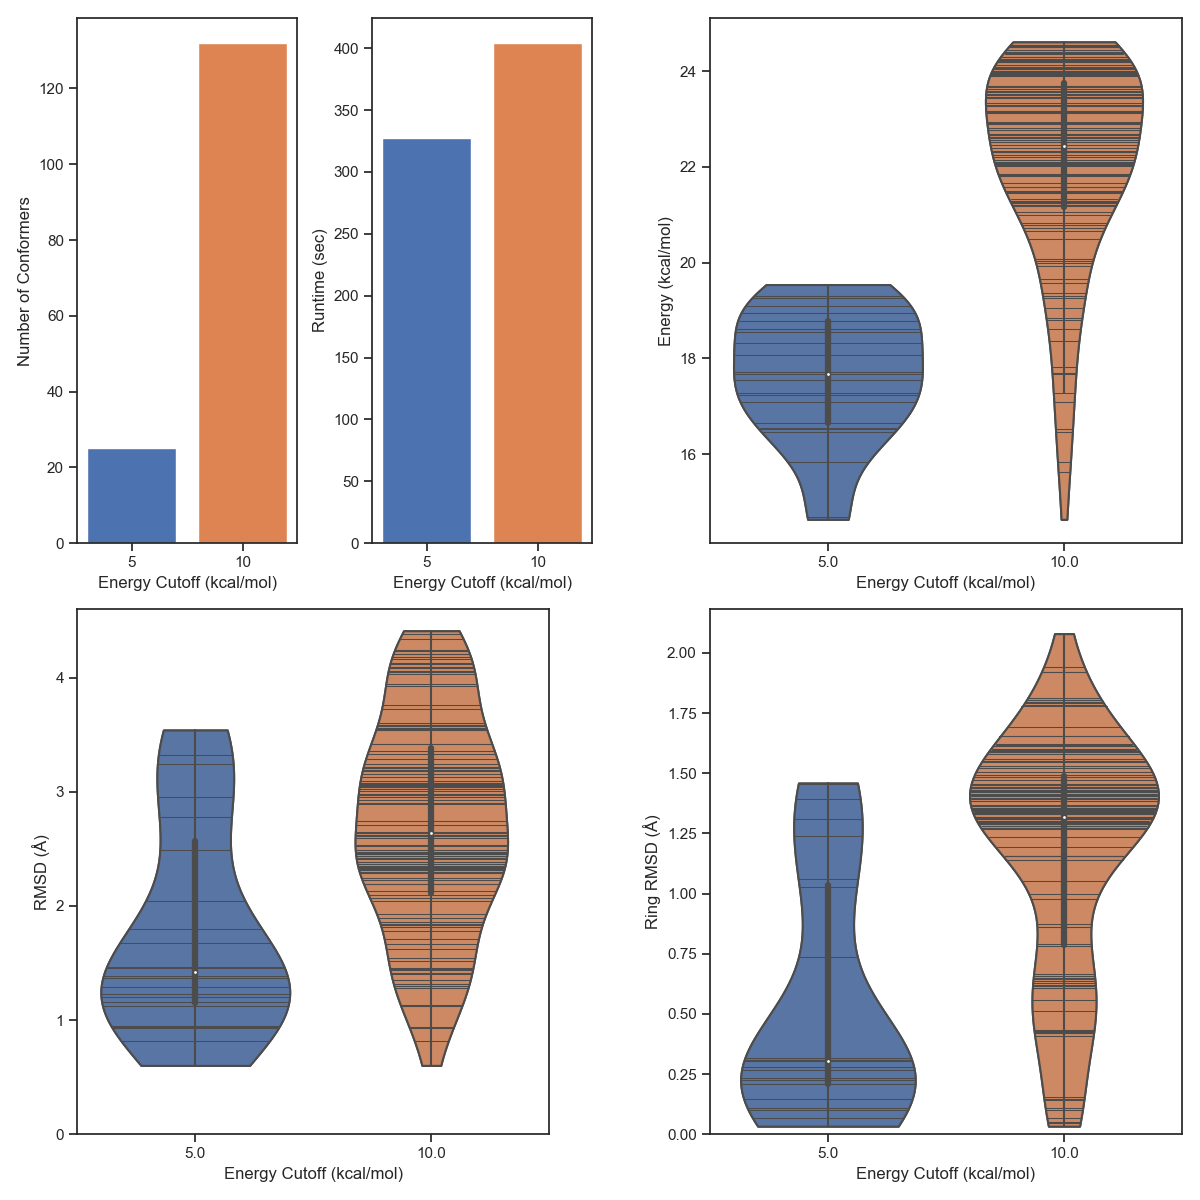
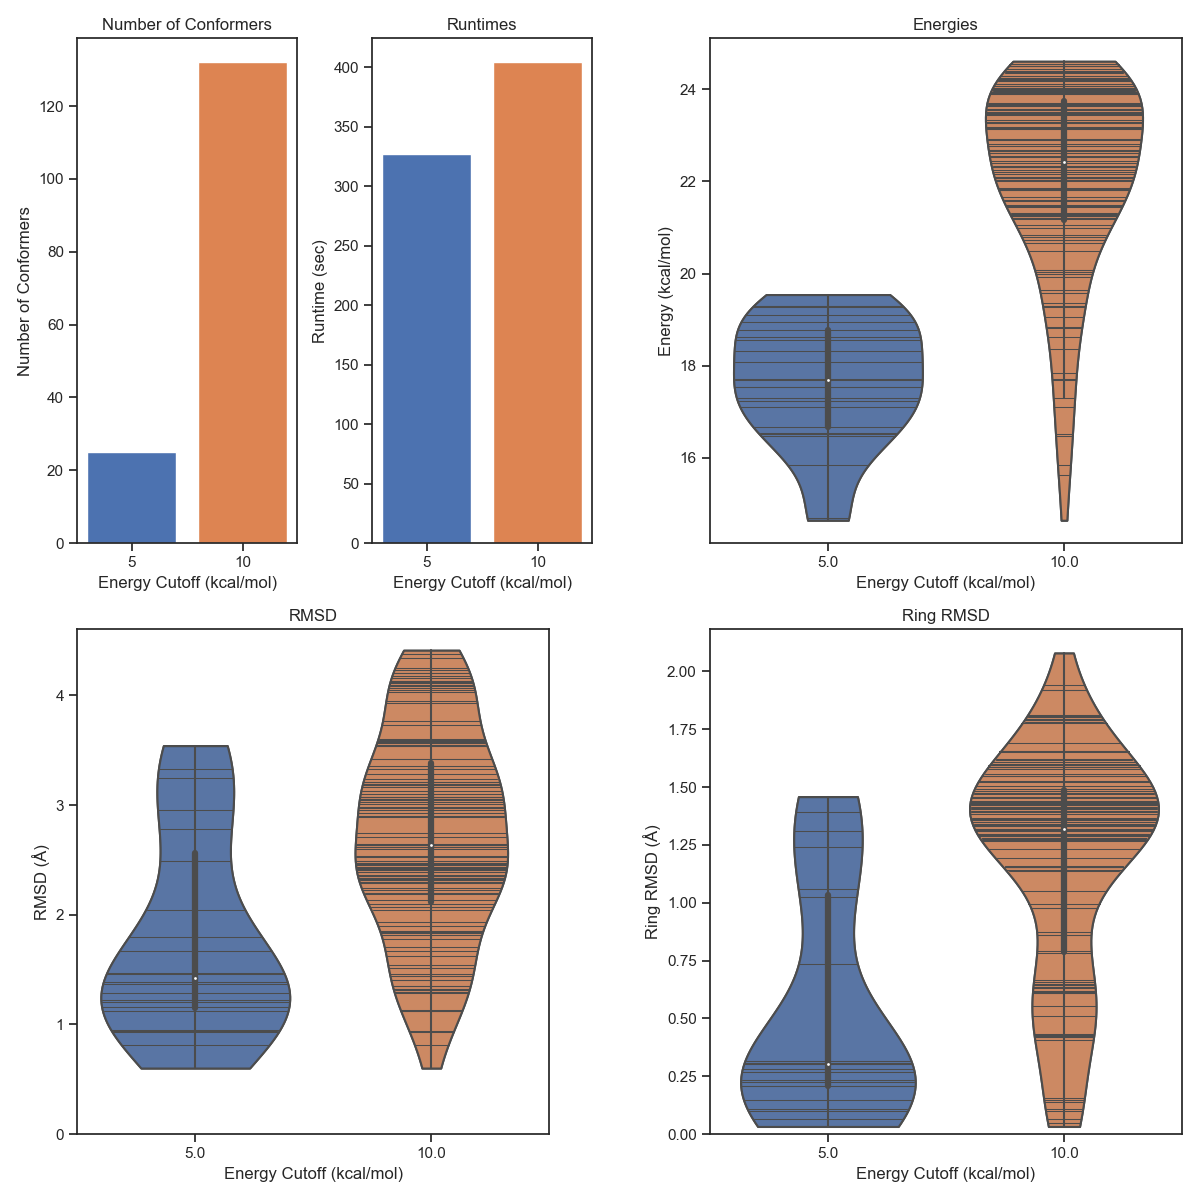
add titles to subfigures

diff --git a/conf_gen/stats.py b/conf_gen/stats.py
@@ -62,12 +62,14 @@ def plot_stats(filepaths):
     ax1.bar(stats.keys(), num_confs, color=current_palette)
     ax1.set_xlabel('Energy Cutoff (kcal/mol)')
     ax1.set_ylabel('Number of Conformers')
+    ax1.title.set_text('Number of Conformers')
 
     # Runtimes
     runtimes = np.array([data['time'] for data in stats.values()]).flatten()
     ax2.bar(stats.keys(), runtimes, color=current_palette)
     ax2.set_xlabel('Energy Cutoff (kcal/mol)')
     ax2.set_ylabel('Runtime (sec)')
+    ax2.title.set_text('Runtimes')
 
     # Energy
     cutoffs = np.array([])
@@ -80,6 +82,7 @@ def plot_stats(filepaths):
                 kind='violin', inner='stick', cut=0, data=df_energy, ax=ax3)
     sns.catplot(x='Energy Cutoff (kcal/mol)', y='Energy (kcal/mol)',
                 kind='violin', inner='box', cut=0, data=df_energy, ax=ax3)
+    ax3.title.set_text('Energies')
 
     # RMSD
     cutoffs = np.array([])
@@ -94,6 +97,7 @@ def plot_stats(filepaths):
     sns.catplot(x='Energy Cutoff (kcal/mol)', y='RMSD (Å)',
                 kind='violin', inner='box', cut=0, data=df_rmsd, ax=ax4)
     ax4.set_ylim(0)
+    ax4.title.set_text('RMSD')
 
     # Ring RMSD
     cutoffs = np.array([])
@@ -108,6 +112,7 @@ def plot_stats(filepaths):
     sns.catplot(x='Energy Cutoff (kcal/mol)', y='Ring RMSD (Å)',
                 kind='violin', inner='box', cut=0, data=df_ring_rmsd, ax=ax5)
     ax5.set_ylim(0)
+    ax5.title.set_text('Ring RMSD')
 
     fig.tight_layout(w_pad=0.5)
 
@@ -135,7 +140,17 @@ def load_data(filepaths):
     return stats
 
 
-filepaths = [os.path.join(os.path.dirname(os.path.realpath(__file__)), '..', 'examples', 'macrocycle_2_5_0.json'),
-             os.path.join(os.path.dirname(os.path.realpath(__file__)), '..', 'examples', 'macrocycle_2_10_0.json')]
+filepaths = [os.path.join(os.path.dirname(os.path.realpath(__file__)), '..', 'examples', 'macrocycle_0_5.json'),
+             os.path.join(os.path.dirname(os.path.realpath(__file__)), '..', 'examples', 'macrocycle_0_10.json')]
 fig = plot_stats(filepaths)
-fig.savefig('macrocycle_2.png')
+fig.savefig('macrocycle_0_stats.png')
+
+filepaths = [os.path.join(os.path.dirname(os.path.realpath(__file__)), '..', 'examples', 'macrocycle_1_5.json'),
+             os.path.join(os.path.dirname(os.path.realpath(__file__)), '..', 'examples', 'macrocycle_1_10.json')]
+fig = plot_stats(filepaths)
+fig.savefig('macrocycle_1_stats.png')
+
+filepaths = [os.path.join(os.path.dirname(os.path.realpath(__file__)), '..', 'examples', 'macrocycle_2_5.json'),
+             os.path.join(os.path.dirname(os.path.realpath(__file__)), '..', 'examples', 'macrocycle_2_10.json')]
+fig = plot_stats(filepaths)
+fig.savefig('macrocycle_2_stats.png')
